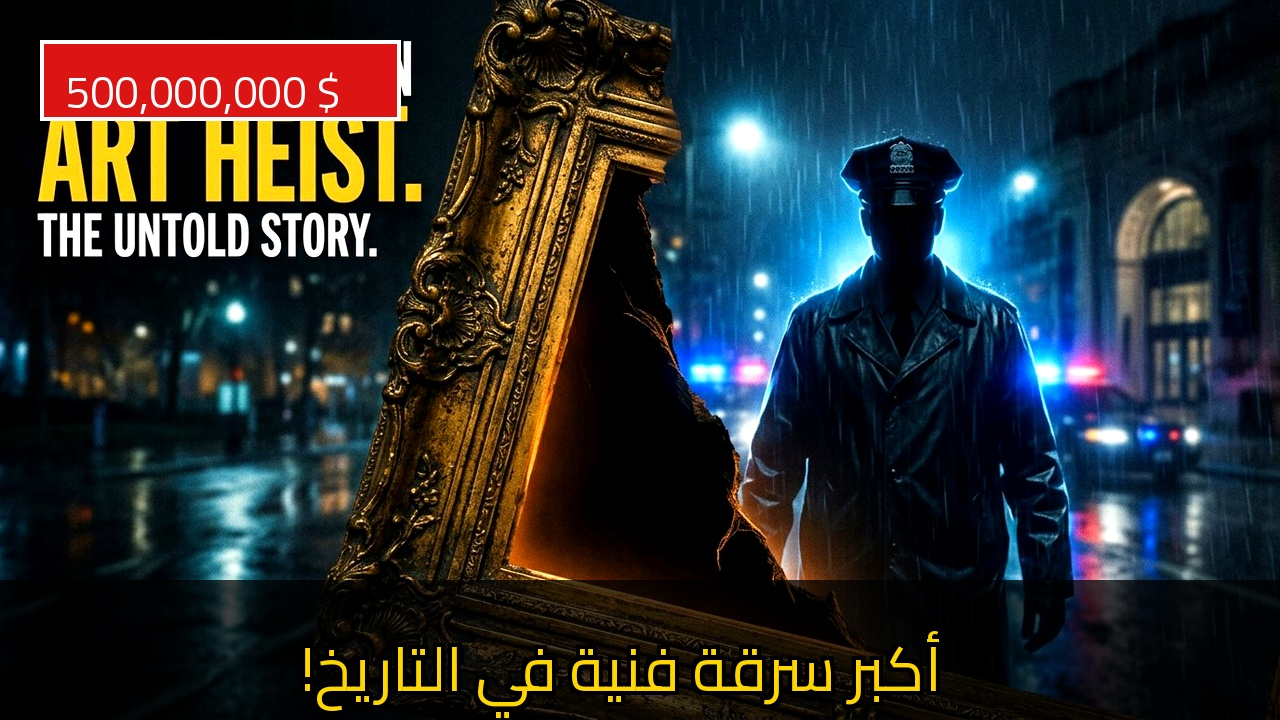
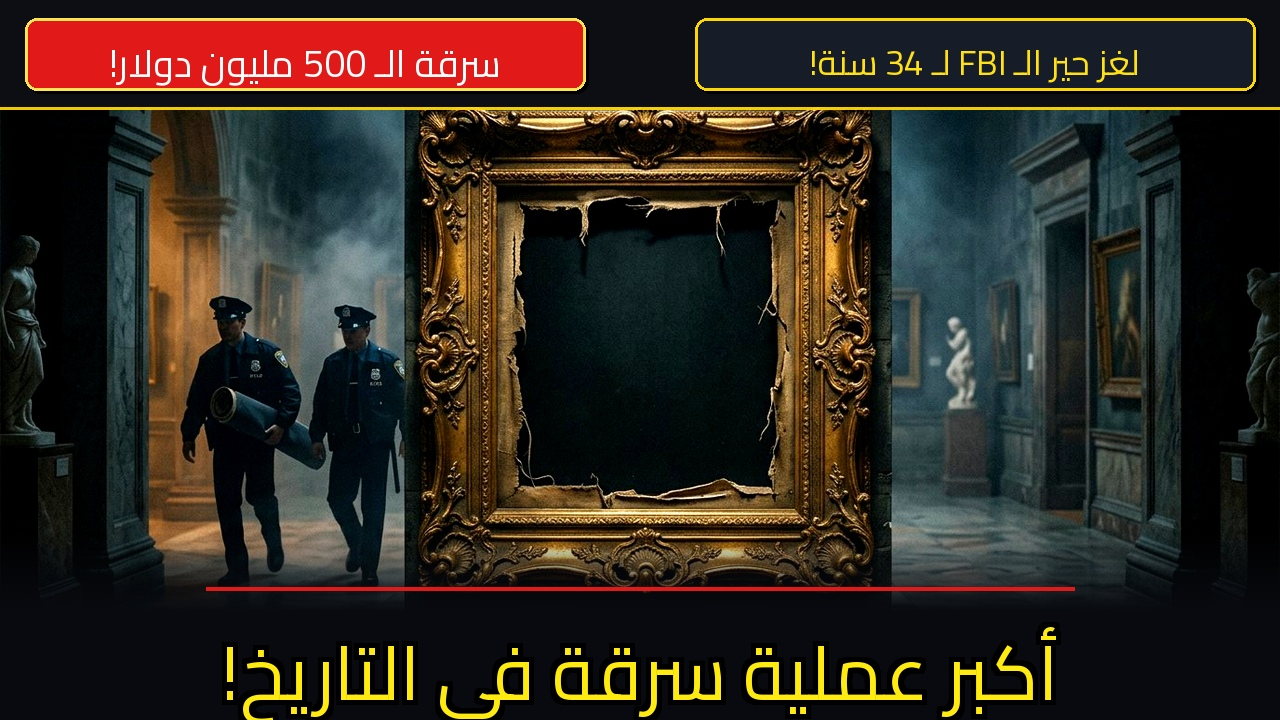
feat(video_03): explosive high-CTR thumbnails & pure raw English master render script

diff --git a/production_vault/video_03_gardner_heist/render_explosive_thumbnails.py b/production_vault/video_03_gardner_heist/render_explosive_thumbnails.py
@@ -1,0 +1,140 @@
+import os
+from PIL import Image, ImageDraw, ImageFont, ImageEnhance
+
+cairo_font = "/home/user/media-empire-autopilot/fonts/Cairo-Variable.ttf"
+base_thumb = "/home/user/thumbnail_gardner_raw.jpg"
+if not os.path.exists(base_thumb):
+    base_thumb = "/home/user/media-empire-autopilot/production_vault/video_03_gardner_heist/thumbnail_gardner_raw.jpg"
+
+def render_explosive_arabic_thumbnail():
+    im = Image.open(base_thumb).convert("RGBA")
+    im = im.resize((1280, 720), Image.Resampling.LANCZOS)
+    
+    im = ImageEnhance.Contrast(im).enhance(1.22)
+    im = ImageEnhance.Color(im).enhance(1.25)
+    
+    overlay = Image.new("RGBA", (1280, 720), (0, 0, 0, 0))
+    d_over = ImageDraw.Draw(overlay)
+    
+    # 1. 100% opaque solid top bar to completely mask "HEIST"
+    d_over.rectangle([0, 0, 1280, 108], fill=(12, 14, 20, 255))
+    d_over.line([(0, 108), (1280, 108)], fill=(255, 215, 0, 240), width=3)
+    
+    # 2. Darken bottom strongly (y: 530 to 720) to hide credit text completely
+    for y in range(530, 610):
+        prog = (y - 530) / 80.0
+        alpha = int(prog * 255)
+        d_over.line([(0, y), (1280, y)], fill=(8, 10, 15, alpha))
+    d_over.rectangle([0, 610, 1280, 720], fill=(8, 10, 15, 255))
+    
+    im = Image.alpha_composite(im, overlay)
+    draw = ImageDraw.Draw(im)
+    
+    # 1. Top-Left Badge: Red Pill -> "سرقة الـ 500 مليون دولار!"
+    f_badge = ImageFont.truetype(cairo_font, 38)
+    b_text = "سرقة الـ 500 مليون دولار!"
+    bx, by, bw, bh = 25, 18, 560, 72
+    draw.rounded_rectangle([bx+3, by+3, bx+bw+3, by+bh+3], radius=12, fill=(0, 0, 0, 220))
+    draw.rounded_rectangle([bx, by, bx+bw, by+bh], radius=12, fill=(225, 25, 25), outline=(255, 230, 80), width=3)
+    bbox_b = f_badge.getbbox(b_text, direction='rtl')
+    tbw = bbox_b[2] - bbox_b[0]
+    draw.text((bx + (bw - tbw)//2, by + 9), b_text, fill=(255, 255, 255), font=f_badge, direction='rtl')
+    
+    # 2. Top-Right Badge: Dark Slate Pill with Gold -> "لغز حير الـ FBI لـ 34 سنة!"
+    f_badge_r = ImageFont.truetype(cairo_font, 35)
+    r_text = "لغز حير الـ FBI لـ 34 سنة!"
+    rx, ry, rw, rh = 695, 18, 560, 72
+    draw.rounded_rectangle([rx+3, ry+3, rx+rw+3, ry+rh+3], radius=12, fill=(0, 0, 0, 220))
+    draw.rounded_rectangle([rx, ry, rx+rw, ry+rh], radius=12, fill=(22, 28, 40), outline=(255, 215, 0), width=3)
+    bbox_r = f_badge_r.getbbox(r_text, direction='rtl')
+    trw = bbox_r[2] - bbox_r[0]
+    draw.text((rx + (rw - trw)//2, ry + 11), r_text, fill=(255, 225, 20), font=f_badge_r, direction='rtl')
+    
+    # 3. Bottom Massive Hook Headline:
+    # "أكبر عملية سرقة في التاريخ!"
+    f_huge = ImageFont.truetype(cairo_font, 76)
+    h_text = "أكبر عملية سرقة في التاريخ!"
+    bbox = f_huge.getbbox(h_text, direction='rtl')
+    tw = bbox[2] - bbox[0]
+    hx = (1280 - tw) // 2
+    hy = 600
+    
+    # Red accent bar just above text at hy - 14
+    draw.line([(hx - 15, hy - 12), (hx + tw + 15, hy - 12)], fill=(225, 25, 25), width=4)
+    
+    for ox in range(-5, 6):
+        for oy in range(-5, 6):
+            if ox != 0 or oy != 0:
+                draw.text((hx + ox, hy + oy), h_text, fill=(0, 0, 0), font=f_huge, direction='rtl')
+            
+    draw.text((hx, hy), h_text, fill=(255, 235, 15), font=f_huge, direction='rtl')
+    
+    out_path = "/home/user/thumbnail_gardner_egyptian_blockbuster.jpg"
+    im.convert("RGB").save(out_path, quality=96)
+    print("Explosive Arabic thumbnail saved:", out_path)
+
+def render_explosive_english_thumbnail():
+    im = Image.open(base_thumb).convert("RGBA")
+    im = im.resize((1280, 720), Image.Resampling.LANCZOS)
+    
+    im = ImageEnhance.Contrast(im).enhance(1.22)
+    im = ImageEnhance.Color(im).enhance(1.25)
+    
+    overlay = Image.new("RGBA", (1280, 720), (0, 0, 0, 0))
+    d_over = ImageDraw.Draw(overlay)
+    
+    d_over.rectangle([0, 0, 1280, 108], fill=(12, 14, 20, 255))
+    d_over.line([(0, 108), (1280, 108)], fill=(255, 215, 0, 240), width=3)
+    
+    for y in range(530, 610):
+        prog = (y - 530) / 80.0
+        alpha = int(prog * 255)
+        d_over.line([(0, y), (1280, y)], fill=(8, 10, 15, alpha))
+    d_over.rectangle([0, 610, 1280, 720], fill=(8, 10, 15, 255))
+    
+    im = Image.alpha_composite(im, overlay)
+    draw = ImageDraw.Draw(im)
+    
+    # Left: "$500,000,000 HEIST"
+    f_badge = ImageFont.truetype(cairo_font, 38)
+    b_text = "$500,000,000 HEIST"
+    bx, by, bw, bh = 25, 18, 520, 72
+    draw.rounded_rectangle([bx+3, by+3, bx+bw+3, by+bh+3], radius=12, fill=(0, 0, 0, 220))
+    draw.rounded_rectangle([bx, by, bx+bw, by+bh], radius=12, fill=(225, 25, 25), outline=(255, 230, 80), width=3)
+    bbox_b = f_badge.getbbox(b_text)
+    tbw = bbox_b[2] - bbox_b[0]
+    draw.text((bx + (bw - tbw)//2, by + 9), b_text, fill=(255, 255, 255), font=f_badge)
+    
+    # Right: "UNSOLVED FOR 34 YEARS!"
+    f_badge_r = ImageFont.truetype(cairo_font, 35)
+    r_text = "UNSOLVED FOR 34 YEARS!"
+    rx, ry, rw, rh = 695, 18, 560, 72
+    draw.rounded_rectangle([rx+3, ry+3, rx+rw+3, ry+rh+3], radius=12, fill=(0, 0, 0, 220))
+    draw.rounded_rectangle([rx, ry, rx+rw, ry+rh], radius=12, fill=(22, 28, 40), outline=(255, 215, 0), width=3)
+    bbox_r = f_badge_r.getbbox(r_text)
+    trw = bbox_r[2] - bbox_r[0]
+    draw.text((rx + (rw - trw)//2, ry + 11), r_text, fill=(255, 225, 20), font=f_badge_r)
+    
+    # Bottom: "THE BIGGEST HEIST IN HISTORY!"
+    f_huge = ImageFont.truetype(cairo_font, 68)
+    h_text = "THE BIGGEST HEIST IN HISTORY!"
+    bbox = f_huge.getbbox(h_text)
+    tw = bbox[2] - bbox[0]
+    hx = (1280 - tw) // 2
+    hy = 605
+    
+    draw.line([(hx - 15, hy - 12), (hx + tw + 15, hy - 12)], fill=(225, 25, 25), width=4)
+    
+    for ox in range(-5, 6):
+        for oy in range(-5, 6):
+            if ox != 0 or oy != 0:
+                draw.text((hx + ox, hy + oy), h_text, fill=(0, 0, 0), font=f_huge)
+            
+    draw.text((hx, hy), h_text, fill=(255, 235, 15), font=f_huge)
+    
+    out_path = "/home/user/thumbnail_gardner_english_blockbuster.jpg"
+    im.convert("RGB").save(out_path, quality=96)
+    print("Explosive English thumbnail saved:", out_path)
+
+render_explosive_arabic_thumbnail()
+render_explosive_english_thumbnail()

diff --git a/production_vault/video_03_gardner_heist/render_pure_english_master.py b/production_vault/video_03_gardner_heist/render_pure_english_master.py
@@ -1,0 +1,188 @@
+import subprocess
+from pathlib import Path
+import sys
+
+sys.path.insert(0, '/home/user/media-empire-autopilot')
+import sound_studio
+
+ffmpeg = sound_studio.FFMPEG_BIN
+
+video_in = Path("/home/user/.cache/pure_master_video.mp4")
+voice_in = Path("/home/user/english_charon/full_charon_voice.wav")
+srt_path = Path("/home/user/english_master.srt")
+
+srt_content = """1
+00:00:00,000 --> 00:00:06,500
+In a single night, two disguised thieves walked into a museum...
+
+2
+00:00:06,500 --> 00:00:12,000
+and vanished with the greatest treasure in human history: half a billion dollars in stolen art!
+
+3
+00:00:12,000 --> 00:00:17,500
+But the real shock is not what they stole.
+
+4
+00:00:17,500 --> 00:00:23,770
+It's the chilling, unsolved secret waiting at the end of this video...
+
+5
+00:00:23,770 --> 00:00:30,000
+On a freezing rainy night in Boston, during St. Patrick's Day celebrations,
+
+6
+00:00:30,000 --> 00:00:36,000
+a red car pulled quietly outside the historic Isabella Stewart Gardner Museum.
+
+7
+00:00:36,000 --> 00:00:43,000
+Two men stepped out disguised as Boston Police officers, badges gleaming in the dark.
+
+8
+00:00:43,000 --> 00:00:50,970
+They walked up to the security door... and pressed the buzzer.
+
+9
+00:00:50,970 --> 00:00:57,000
+Inside the security desk, young night watchman Richard Abath watched the CRT monitors.
+
+10
+00:00:57,000 --> 00:01:03,000
+Hearing police investigating a disturbance, he broke protocol and buzzed them in.
+
+11
+00:01:03,000 --> 00:01:10,000
+The officer ordered: "You have a warrant out for your arrest, step out from the desk!"
+
+12
+00:01:10,000 --> 00:01:19,300
+Abath stepped away from the panic button... and cold steel handcuffs snapped around his wrists!
+
+13
+00:01:19,300 --> 00:01:25,000
+The guards were marched into the dark basement cellar,
+
+14
+00:01:25,000 --> 00:01:31,000
+duct tape wrapped around their eyes and mouths, and handcuffed to steam pipes.
+
+15
+00:01:31,000 --> 00:01:37,000
+Upstairs in the Dutch Room, the thieves stood before Rembrandt's masterpiece:
+
+16
+00:01:37,000 --> 00:01:48,900
+The Storm on the Sea of Galilee. A razor slashed the centuries-old canvas from its gold frame!
+
+17
+00:01:48,900 --> 00:01:54,500
+They didn't stop there. They seized Vermeer's 'The Concert'—the most valuable stolen object on Earth!
+
+18
+00:01:54,500 --> 00:02:00,000
+Along with Degas drawings and a Napoleonic eagle, they collected 13 treasures worth $500M.
+
+19
+00:02:00,000 --> 00:02:08,000
+In 81 minutes, they loaded the rolled canvases into their red car and vanished into the fog,
+
+20
+00:02:08,000 --> 00:02:18,360
+leaving empty frames crying on the museum walls.
+
+21
+00:02:18,360 --> 00:02:24,000
+At 8:00 AM, the morning relief guards found locked doors and eerie silence.
+
+22
+00:02:24,000 --> 00:02:30,000
+Police broke inside and discovered the night watchmen bound in the dark basement.
+
+23
+00:02:30,000 --> 00:02:37,000
+When FBI agents stepped into the Dutch Room, they froze in utter horror.
+
+24
+00:02:37,000 --> 00:02:46,000
+The walls were stripped bare, severed threads dangling from empty frames...
+
+25
+00:02:46,000 --> 00:02:54,900
+and the thieves were gone without leaving a single fingerprint!
+
+26
+00:02:54,900 --> 00:03:01,000
+Federal investigations led straight into Boston's ruthless Italian mob.
+
+27
+00:03:01,000 --> 00:03:08,000
+Informants revealed paintings were traded as 'get-out-of-jail-free' cards among mob bosses.
+
+28
+00:03:08,000 --> 00:03:15,000
+But whenever anyone came close to talking to the FBI, they were silenced!
+
+29
+00:03:15,000 --> 00:03:25,190
+A bloody trail of gangland murders buried the secret with the victims beneath the earth.
+
+30
+00:03:25,190 --> 00:03:31,000
+To this day, the empty frames still hang waiting on the walls...
+
+31
+00:03:31,000 --> 00:03:37,000
+and a $10,000,000 FBI reward remains completely unclaimed!
+
+32
+00:03:37,000 --> 00:03:42,500
+Are the paintings buried underground, or hidden inside a secret billionaire's vault?
+
+33
+00:03:42,500 --> 00:03:49,560
+Comment your theory below, hit Like, and Subscribe with notifications on for the next mystery!
+"""
+srt_path.write_text(srt_content, encoding="utf-8")
+
+drone_wav = Path("/home/user/.cache/eng_drone.wav")
+cmd_dr = [
+    ffmpeg, "-y",
+    "-f", "lavfi",
+    "-i", "anoisesrc=d=229.5:c=pink:r=48000,lowpass=f=220,volume=0.22",
+    str(drone_wav)
+]
+subprocess.run(cmd_dr, check=True, stdout=subprocess.DEVNULL, stderr=subprocess.DEVNULL)
+
+out_final = Path("/home/user/gardner_heist_english_master_4min.mp4")
+
+scope_filter = "drawbox=y=0:h=48:color=black:t=fill,drawbox=y=ih-48:h=48:color=black:t=fill"
+sub_filter = f"subtitles={srt_path}:force_style='Fontname=Arial,Fontsize=22,PrimaryColour=&H00FFFFFF&,SecondaryColour=&H0000FFFF&,OutlineColour=&H00000000&,BackColour=&H80000000&,BorderStyle=3,Outline=2,Shadow=1,MarginV=30,Alignment=2'"
+vf = f"{scope_filter},{sub_filter}"
+
+cmd = [
+    ffmpeg, "-y",
+    "-i", str(video_in),
+    "-i", str(voice_in),
+    "-i", str(drone_wav),
+    "-filter_complex",
+    f"[0:v]{vf}[v];[1:a]volume=1.0[vce];[2:a]volume=0.10[drn];[vce][drn]amix=inputs=2:duration=first[a]",
+    "-map", "[v]",
+    "-map", "[a]",
+    "-c:v", "libx264", "-preset", "ultrafast", "-crf", "22",
+    "-c:a", "aac", "-b:a", "160k",
+    "-t", "229.3",
+    str(out_final)
+]
+
+print("Rendering 100% PURE English Master (ZERO Arabic text)...")
+res = subprocess.run(cmd, capture_output=True, text=True)
+if res.returncode != 0:
+    print("FFmpeg error:", res.stderr)
+    sys.exit(1)
+
+dur = sound_studio.get_audio_duration(out_final)
+size_mb = out_final.stat().st_size / (1024 * 1024)
+print(f"🏆 SUCCESS: 100% PURE English Master Film Created!")
+print(f"Path: {out_final}")
+print(f"Duration: {dur:.2f}s ({dur/60:.2f} min), Size: {size_mb:.2f} MB")
